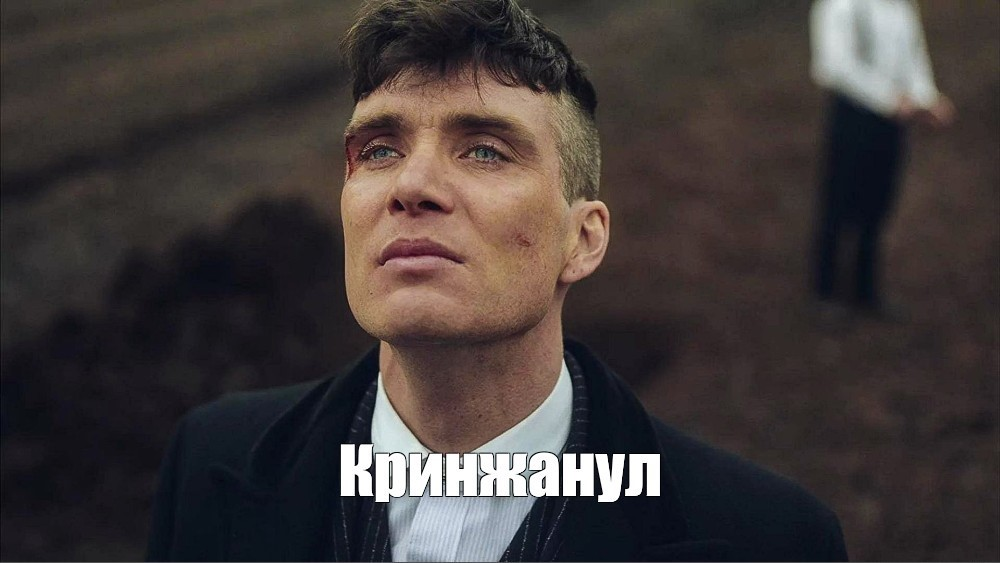
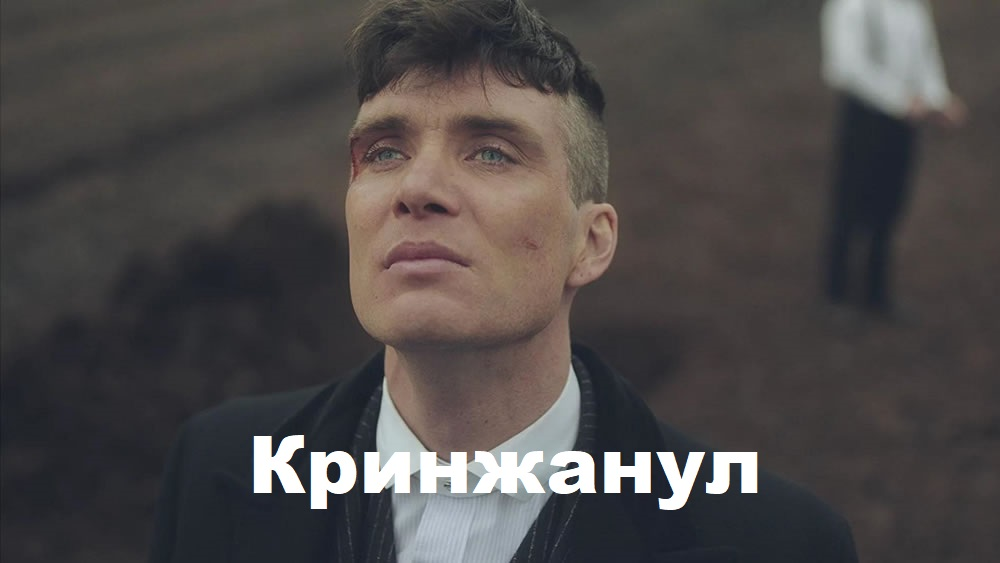
feat: add styles to text (Sat, May 14, 2022 12:01:11 AM)

diff --git a/cssMemSlider/index.html b/cssMemSlider/index.html
@@ -9,13 +9,13 @@
 </head>
 <body>
   <div class="wrapper"> 
-    <input type="radio" name="point" id="slide1" checked>
-    <input type="radio" name="point" id="slide2">
-    <input type="radio" name="point" id="slide3">
-    <input type="radio" name="point" id="slide4">
-    <input type="radio" name="point" id="slide5">
-    <input type="radio" name="point" id="slide6">
-    <input type="radio" name="point" id="slide7">
+    <input class="input" type="radio" name="point" id="slide1" checked>
+    <input class="input" type="radio" name="point" id="slide2">
+    <input class="input" type="radio" name="point" id="slide3">
+    <input class="input" type="radio" name="point" id="slide4">
+    <input class="input" type="radio" name="point" id="slide5">
+    <input class="input" type="radio" name="point" id="slide6">
+    <input class="input" type="radio" name="point" id="slide7">
     <span class="slide-text text1">Кринжанул</span>
     <span class="slide-text text2">Мегаплох</span>
     <span class="slide-text text3">Плох</span>

diff --git a/cssMemSlider/style.css b/cssMemSlider/style.css
@@ -28,6 +28,7 @@ body {
 
 .slider {
   width: 800px;
+  margin-bottom: 40px;
   height: 450px;
   order: -2;
 }
@@ -83,8 +84,16 @@ body {
   margin-left: auto;
 }
 
+.input {
+  margin-top: 10px;
+}
+
 .slide-text {
   display: none;
+  height: 40px;
+  text-align: start;
+  color: beige;
+  font-size: 30px;
   opacity: 0;
   order: -1;
 }
